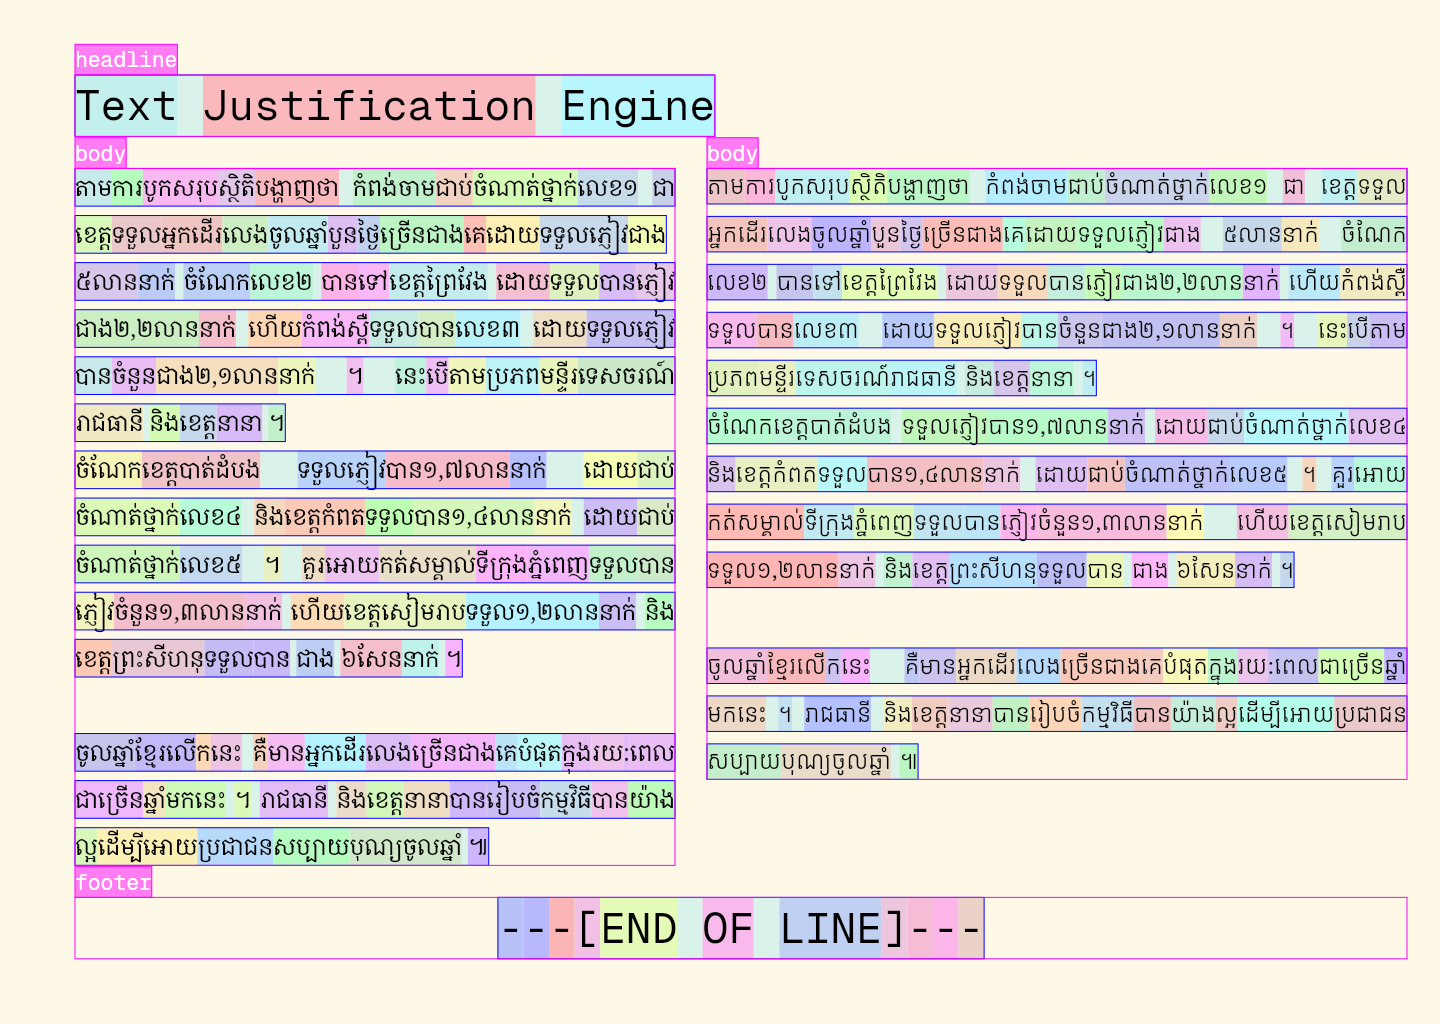
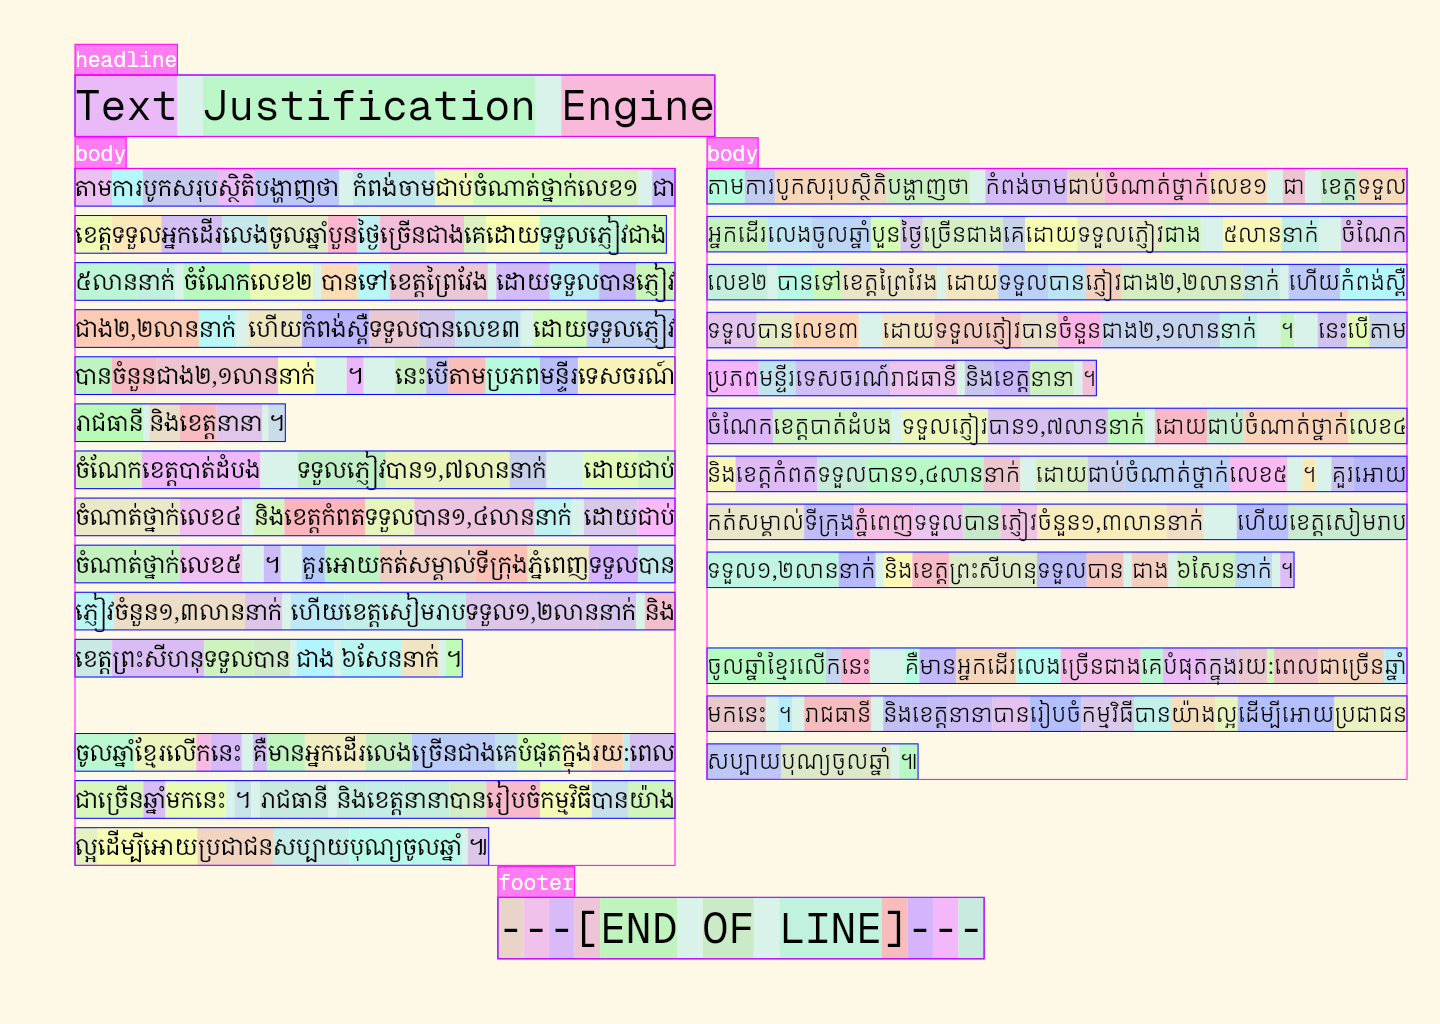
fix: bbox of group

diff --git a/khmer-justify.js b/khmer-justify.js
@@ -114,6 +114,10 @@ export class TextLayer {
 
     const groups = [];
 
+    let minOffsetWidth = Infinity;
+    let maxLineWidth = 0;
+
+
     for (let lineNumber = 0; lineNumber < lines.length; lineNumber++) {
 
       const line = lines[lineNumber];
@@ -136,6 +140,10 @@ export class TextLayer {
         if (textAlign === "center") {
           offsetWidth = (maxWidth - lineWidth) / 2;
         }
+      }
+
+      if (offsetWidth < minOffsetWidth) {
+        minOffsetWidth = offsetWidth;
       }
 
       x += offsetWidth;
@@ -168,6 +176,10 @@ export class TextLayer {
         actualLineWidth += component.w;
       }
 
+      if (actualLineWidth > maxLineWidth) {
+        maxLineWidth = actualLineWidth;
+      }
+
       groups.push({
         bbox: {
           w: actualLineWidth,
@@ -187,9 +199,9 @@ export class TextLayer {
     }
 
     const bbox = {
-      w: maxWidth === Infinity ? x - props.x : maxWidth,
+      w: maxLineWidth,
       h: y - props.y,
-      x: props.x,
+      x: props.x + minOffsetWidth,
       y: props.y,
       left: props.x,
       top: props.y,
